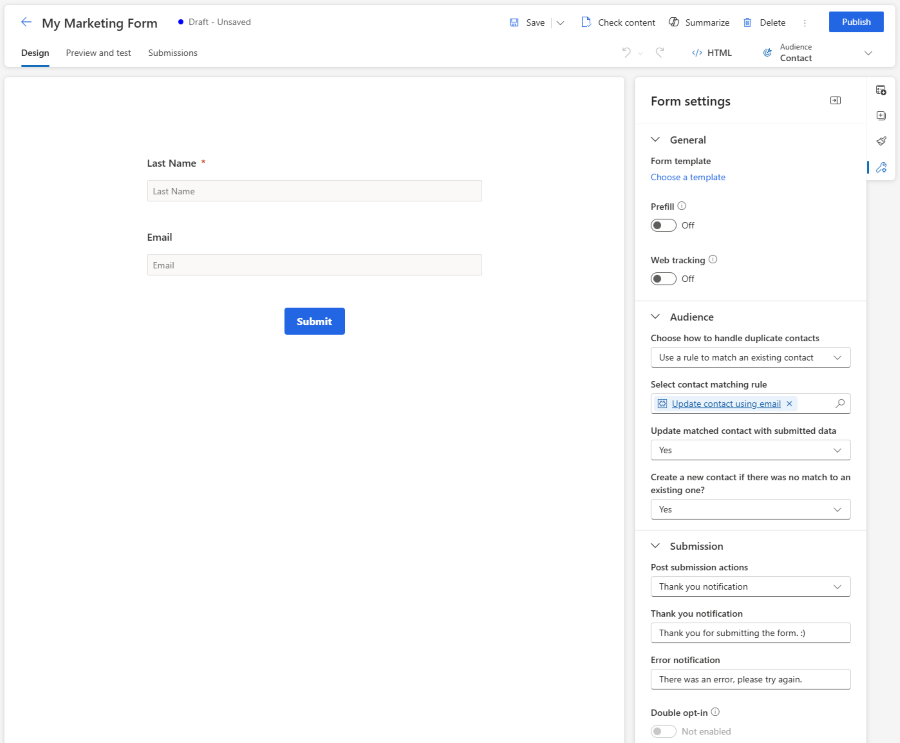
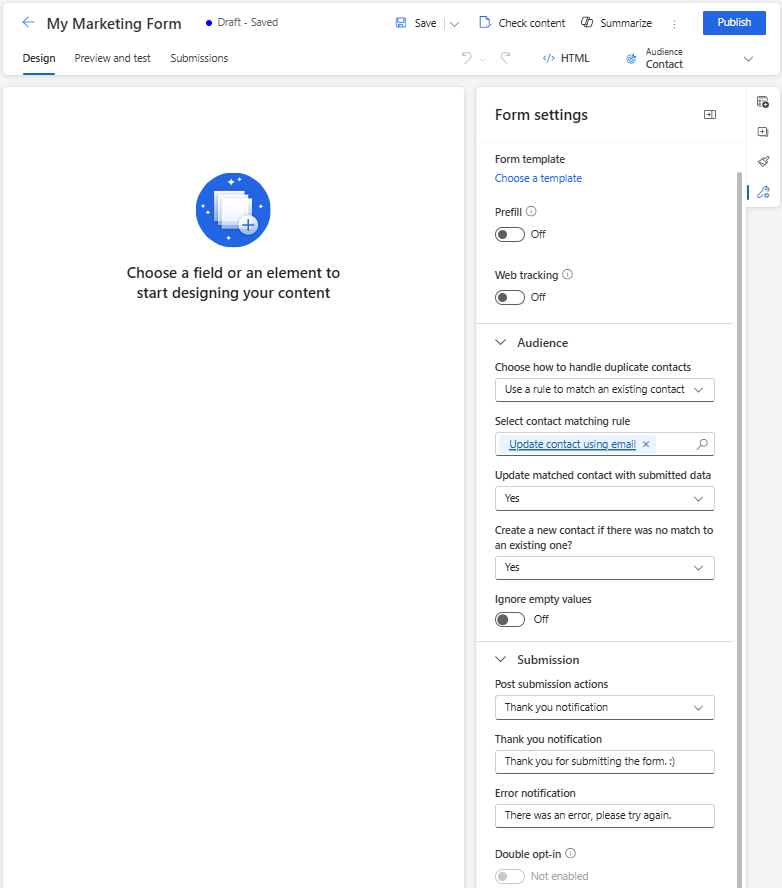
Update
Screenshot + feature description

diff --git a/ci-docs/journeys/real-time-marketing-manage-forms.md b/ci-docs/journeys/real-time-marketing-manage-forms.md
@@ -99,7 +99,7 @@ Form settings let you set advanced properties for your form and define what happ
 - **Form template**: Select a template for your form. Selecting a template deletes all content in your form.
 - **Prefill**: Let [Form Prefill](real-time-marketing-form-prefill.md) fill all fields in your form.
 - **Web tracking**: Let [web tracking](interaction-journey-decision.md) add a [tracking cookie](real-time-journeys-cookies.md) with the form submission ID to the user's browser when they submit the form. If enabled, the form loader script automatically includes the web tracking script, which creates the tracking cookie. Tell users about cookie usage according to your privacy regulations.
-- **Audience**: Set [how to handle duplicate records](real-time-marketing-manage-forms.md#how-to-handle-duplicate-records) by selecting the [matching rule](real-time-marketing-matching-rules.md). Choose whether form submission creates new records or updates existing records. If *Update matched contact with submitted data* and *Create a new contact if there was no match to an existing one?* are set to **No**, the form submission doesn't update or create any record. The form submission can link to an existing record identified by the matching rule.
+- **Audience**: Set [how to handle duplicate records](real-time-marketing-manage-forms.md#how-to-handle-duplicate-records) by selecting the [matching rule](real-time-marketing-matching-rules.md). Choose whether form submission creates new records or updates existing records. If *Update matched contact with submitted data* and *Create a new contact if there was no match to an existing one?* are set to **No**, the form submission doesn't update or create any record. The form submission can link to an existing record identified by the matching rule. Enable [Ignore empty values toggle](#ignore-empty-values) to assure that existing values can't be overwritten by submitted empty values.
 - **Post submission action**: Choose whether to show the *Thank you notification* or redirect the user to a different page after form submission. The *Thank you notification* appears for a few seconds even if *Redirect after submission* is selected.
 - **Thank you notification**: This message appears when the user successfully submits the form.
 - **Error notification**: This message appears when an error occurs during form submission.
@@ -118,6 +118,19 @@ Change the default matching rule by using the **Duplicate records** drop-down in
 ### Create a custom matching rule
 
 A custom matching rule lets you specify criteria for identifying existing leads or contacts. This approach prevents creating duplicate records. For more information, see [Create custom matching rules](real-time-marketing-matching-rules.md).
+
+### Ignore empty values
+
+Use the Ignore empty values toggle to control whether submitted empty form fields can overwrite existing data.
+If a form is submitted with an empty field (e.g., phone number), this setting determines whether the existing value is kept or cleared.
+
+- Toggle OFF (Disabled): The existing value will be overwritten by the empty input.
+- Toggle ON (Enabled): The existing value will be preserved and not replaced by the empty input.
+
+**Example**: A contact has a phone number saved. A form is submitted with the phone number field left blank:
+
+- If the toggle is disabled, the phone number is erased.
+- If the toggle is enabled, the phone number remains unchanged.
 
 ## Field types
 

diff --git a/ci-docs/journeys/real-time-marketing-form-global-settings.md b/ci-docs/journeys/real-time-marketing-form-global-settings.md
@@ -81,6 +81,7 @@ Change audience settings to specify when to create a new record and how to updat
 
 - **Name**: Enter a name for your audience settings. This name appears in the form editor. Use short, descriptive names.
 - **Target entity**: Select the entity used by form submission processing. Marketing forms support lead and contact entities, but event registration forms only support contact.
+- **Ignore empty values**: Control whether empty form fields can overwrite existing data.
 
 #### Matching rules
 
